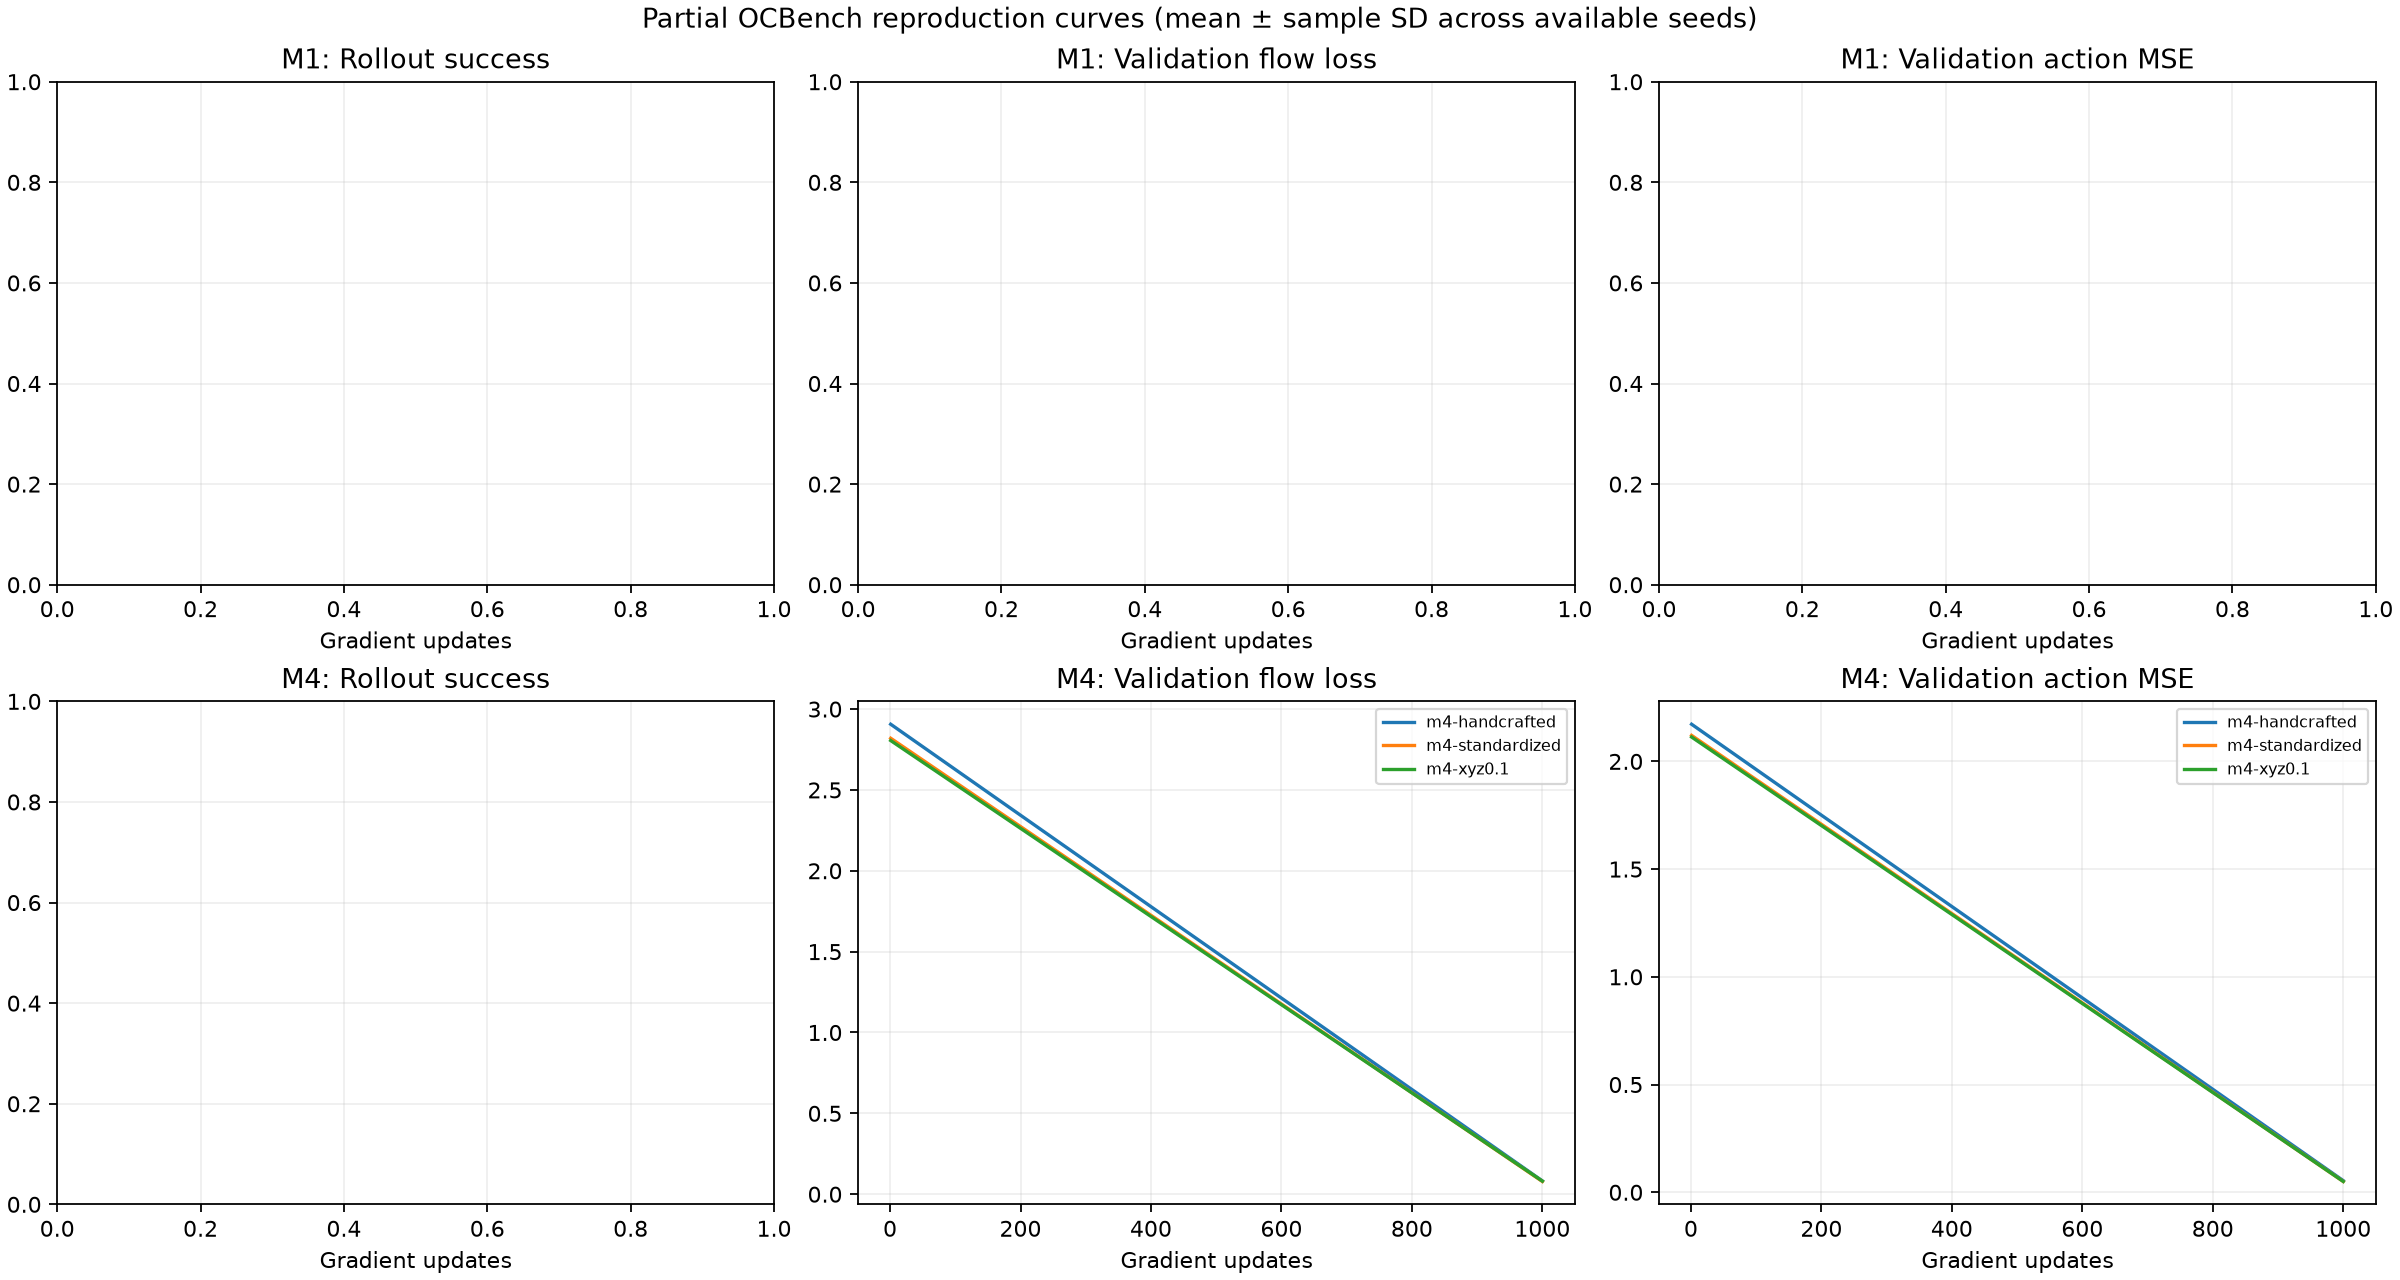
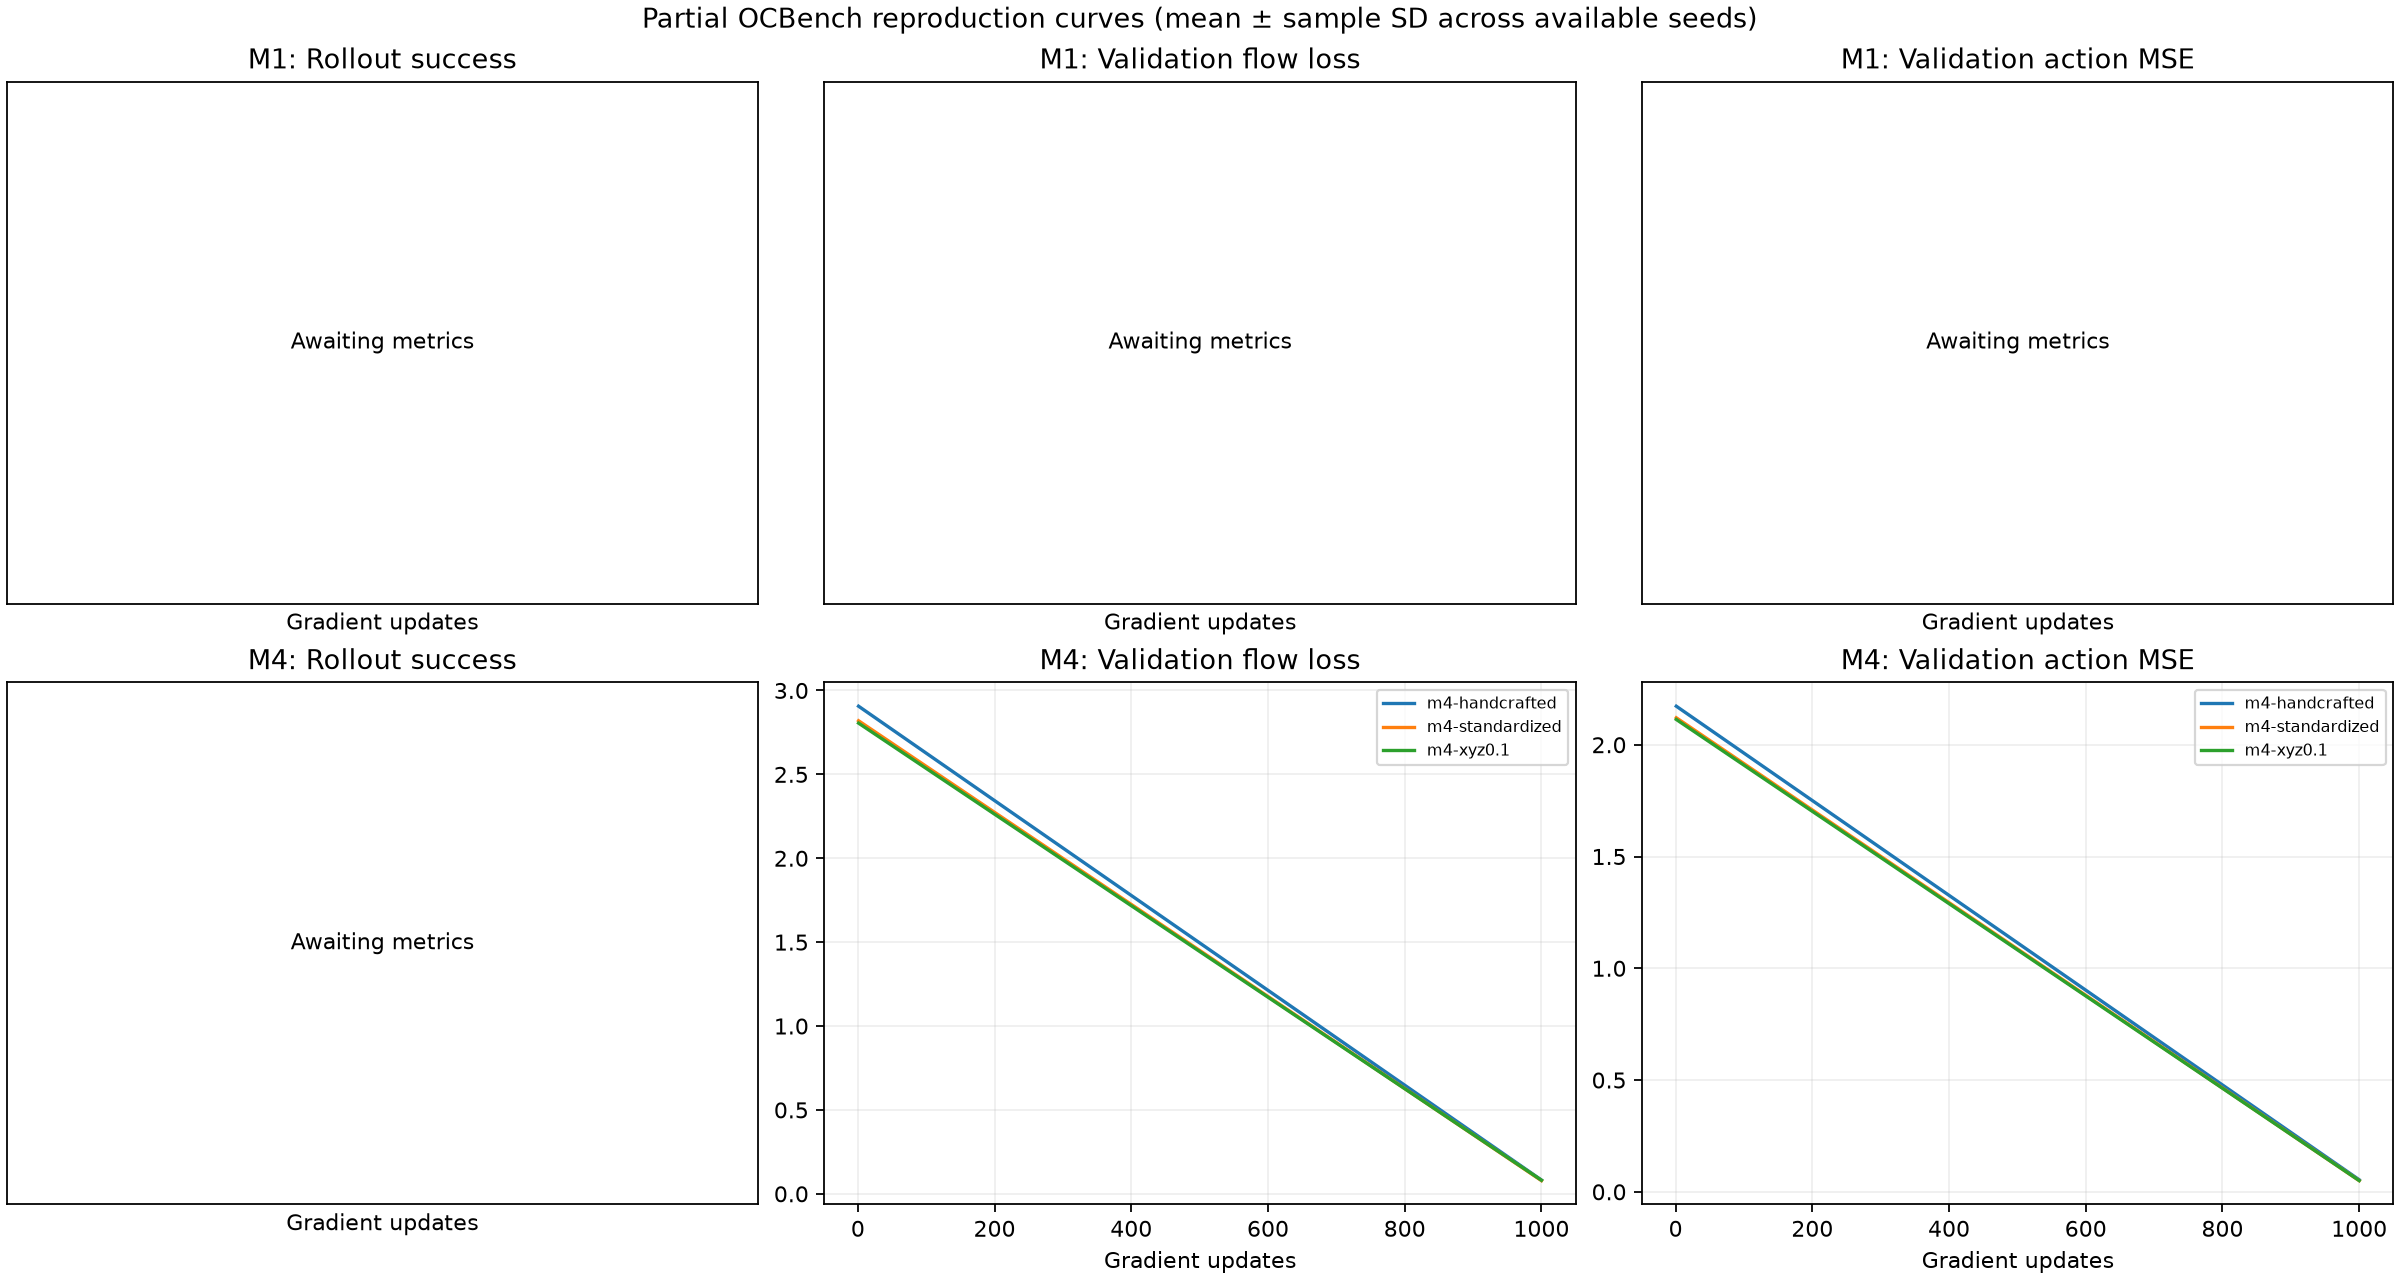
Record first thousand full-run updates and clarify pending plot panels

diff --git a/scripts/plot.py b/scripts/plot.py
@@ -51,6 +51,10 @@ def plot():
             ax.grid(alpha=.2)
             if ax.lines:
                 ax.legend(fontsize=7)
+            else:
+                ax.text(.5, .5, 'Awaiting metrics', ha='center', va='center', transform=ax.transAxes)
+                ax.set_xticks([])
+                ax.set_yticks([])
     figure.suptitle('Partial OCBench reproduction curves (mean ± sample SD across available seeds)')
     figure.savefig(ROOT / 'results/curves.png', dpi=160)
     plt.close(figure)
